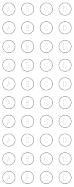
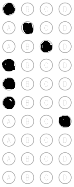
add extra

diff --git a/extra_partition.py b/extra_partition.py
@@ -22,13 +22,13 @@ for idx, con in enumerate(contours):
 def sort_box(box):
     return box[2] * box[3]
 
+
 box_rect = sorted(box_rect, key=sort_box)
 four_max_box = box_rect[-4:]
 w_max_average = int(np.average(list(map(lambda box: box[2], four_max_box))))
 h_max_average = int(np.average(list(map(lambda box: box[3], four_max_box))))
 box_rect = sorted(box_rect, key=lambda box: box[1])
 _, _, w_min, h_min = list(sorted(box_rect, key=lambda box: box[2]))[0]
-
 
 print(w_max_average, h_max_average, w_min, h_min)
 # lấy tọa độ điểm để, cắt ảnh
@@ -50,50 +50,50 @@ cau_111_den_120 = box_rect[14][0], box_rect[14][1], box_rect[0][0], box_rect[20]
 x1, y1, x2, y2 = sbd
 cv2.imwrite('extra/sbd.png', image[y1 + h_min:y2, x1 + int(w_min * 1.4):x2 - int(w_min * 1.8)])
 x1, y1, x2, y2 = ma_de
-cv2.imwrite('extra/ma_de.png', image[y1 + h_min:y2, x1 + int(w_min * 1.4):x2 - int(w_max_average * 1.4)])
+cv2.imwrite('extra/ma_de.png',
+            image[y1 + int(h_min * 1.24):y2 - int(h_max_average * 0.18),
+            x1 + int(w_min * 1.4):x2 - int(w_max_average * 1.3)])
 x1, y1, x2, y2 = cau_1_den_10
 cv2.imwrite('extra/cau_1_den_10.png', image[y1 + int(h_min * 1.3):y2 - int(h_min * 0.3), x1 + int(w_min * 1.4)
-            : x2 - int(w_min * 1.9)])
+                                                                                         : x2 - int(w_min * 1.9)])
 x1, y1, x2, y2 = cau_11_den_20
 cv2.imwrite('extra/cau_11_den_20.png', image[y1 + int(h_min * 1.3):y2 - int(h_min * 0.3), x1 + int(w_min * 1.4)
-            : x2 - int(w_min * 1.9)])
+                                                                                          : x2 - int(w_min * 1.9)])
 x1, y1, x2, y2 = cau_21_den_30
 cv2.imwrite('extra/cau_21_den_30.png', image[y1 + int(h_min * 1.3):y2 - int(h_min * 0.3), x1 + int(w_min * 1.4)
-            : x2 - int(w_min * 1.9)])
+                                                                                          : x2 - int(w_min * 1.9)])
 x1, y1, x2, y2 = cau_31_den_40
 cv2.imwrite('extra/cau_31_den_40.png', image[y1 + int(h_min * 1.3):y2 - int(h_min * 0.3), x1 + int(w_min * 1.4)
-            : x2 - int(w_min * 1.9)])
+                                                                                          : x2 - int(w_min * 1.9)])
 x1, y1, x2, y2 = cau_41_den_50
 cv2.imwrite('extra/cau_41_den_50.png', image[y1 + int(h_min * 1.3):y2 - int(h_min * 0.3), x1 + int(w_min * 1.4)
-            : x2 - int(w_min * 1.9)])
+                                                                                          : x2 - int(w_min * 1.9)])
 x1, y1, x2, y2 = cau_51_den_60
 cv2.imwrite('extra/cau_51_den_60.png', image[y1 + int(h_min * 1.3):y2 - int(h_min * 0.3), x1 + int(w_min * 1.4)
-            : x2 - int(w_min * 1.9)])
+                                                                                          : x2 - int(w_min * 1.9)])
 x1, y1, x2, y2 = cau_61_den_70
 cv2.imwrite('extra/cau_61_den_70.png', image[y1 + int(h_min * 1.3):y2 - int(h_min * 0.3), x1 + int(w_min * 1.4)
-            : x2 - int(w_min * 1.9)])
+                                                                                          : x2 - int(w_min * 1.9)])
 x1, y1, x2, y2 = cau_71_den_80
 cv2.imwrite('extra/cau_71_den_80.png', image[y1 + int(h_min * 1.3):y2 - int(h_min * 0.3), x1 + int(w_min * 1.4)
-            : x2 - int(w_min * 1.9)])
+                                                                                          : x2 - int(w_min * 1.9)])
 x1, y1, x2, y2 = cau_81_den_90
 cv2.imwrite('extra/cau_81_den_90.png', image[y1 + int(h_min * 1.3):y2 - int(h_min * 0.3), x1 + int(w_min * 1.4)
-            : x2 - int(w_min * 1.9)])
+                                                                                          : x2 - int(w_min * 1.9)])
 x1, y1, x2, y2 = cau_91_den_100
 cv2.imwrite('extra/cau_91_den_100.png', image[y1 + int(h_min * 1.3):y2 - int(h_min * 0.3), x1 + int(w_min * 1.4)
-            : x2 - int(w_min * 2.9)])
+                                                                                           : x2 - int(w_min * 2.9)])
 x1, y1, x2, y2 = cau_101_den_110
 cv2.imwrite('extra/cau_101_den_110.png', image[y1 + int(h_min * 1.3):y2 - int(h_min * 0.3), x1 + int(w_min * 1.4)
-            : x2 - int(w_min * 2.9)])
+                                                                                            : x2 - int(w_min * 2.9)])
 x1, y1, x2, y2 = cau_111_den_120
 cv2.imwrite('extra/cau_111_den_120.png', image[y1 + int(h_min * 1.3):y2 - int(h_min * 0.3), x1 + int(w_min * 1.4)
-            : x2 - int(w_min * 2.9)])
-
-# cv2.imshow('dap an2',image[y1:y2, x1:x2])
+                                                                                            : x2 - int(w_min * 2.9)])
 
 for idx, box in enumerate(box_rect):
     x, y, w, h = box
     cv2.putText(blank_image, str(idx), (x, y), cv2.FONT_HERSHEY_SIMPLEX,
                 0.4, (0, 0, 255),
                 1)
-cv2.imshow('blank_image', blank_image)
-cv2.waitKey()
+# cv2.imshow('blank_image', blank_image)
+# cv2.waitKey()

diff --git a/orc.py b/orc.py
@@ -1,0 +1,65 @@
+import cv2
+import numpy as np
+
+path = 'extra/'
+
+# for file in os.listdir(path):
+#     image = cv2.imread(path + file)
+#     cv2.imshow('', image)
+#     cv2.waitKey()
+
+img = cv2.imread('extra/cau_1_den_10.png', 0)
+
+
+# cv2.imshow('', image)
+# cv2.waitKey()
+
+def split_image(s_image, i_h, i_w, i, j):
+    return s_image[i * i_h:i * i_h + i_h + 5, j * i_w:j * i_w + i_w]
+
+
+def extra_info(image, column, row):
+    h, w = image.shape
+    item_h = h // column
+    item_w = w // row
+    text = []
+    for i in range(column):
+        for j in range(row):
+            item = split_image(image, item_h, item_w, i, j)
+            ret, thresh = cv2.threshold(item, 127, 255, cv2.THRESH_BINARY)
+            arr = np.array(thresh)
+            unique, count = np.unique(arr, return_counts=True)
+
+            if len(count) == 2 and count[0] > 50:
+                text.append(str(i))
+
+    return ''.join(text)
+
+
+def num_to_text(n):
+    switcher = {
+        0: "A",
+        1: "B",
+        2: "C",
+        3: "D",
+    }
+    return switcher.get(n, "Invalid num")
+
+
+def extra_question(image, column=10, row=4):
+    h, w = image.shape
+    item_h = h // column
+    item_w = w // row
+    value = {}
+    for i in range(column):
+        for j in range(row):
+            item = split_image(image, item_h, item_w, i, j)
+            ret, thresh = cv2.threshold(item, 127, 255, cv2.THRESH_BINARY)
+            arr = np.array(thresh)
+            unique, count = np.unique(arr, return_counts=True)
+            if len(count) == 2 and count[0] > 50:
+                value[i] = num_to_text(j)
+    return value
+
+
+print(extra_question(img))
